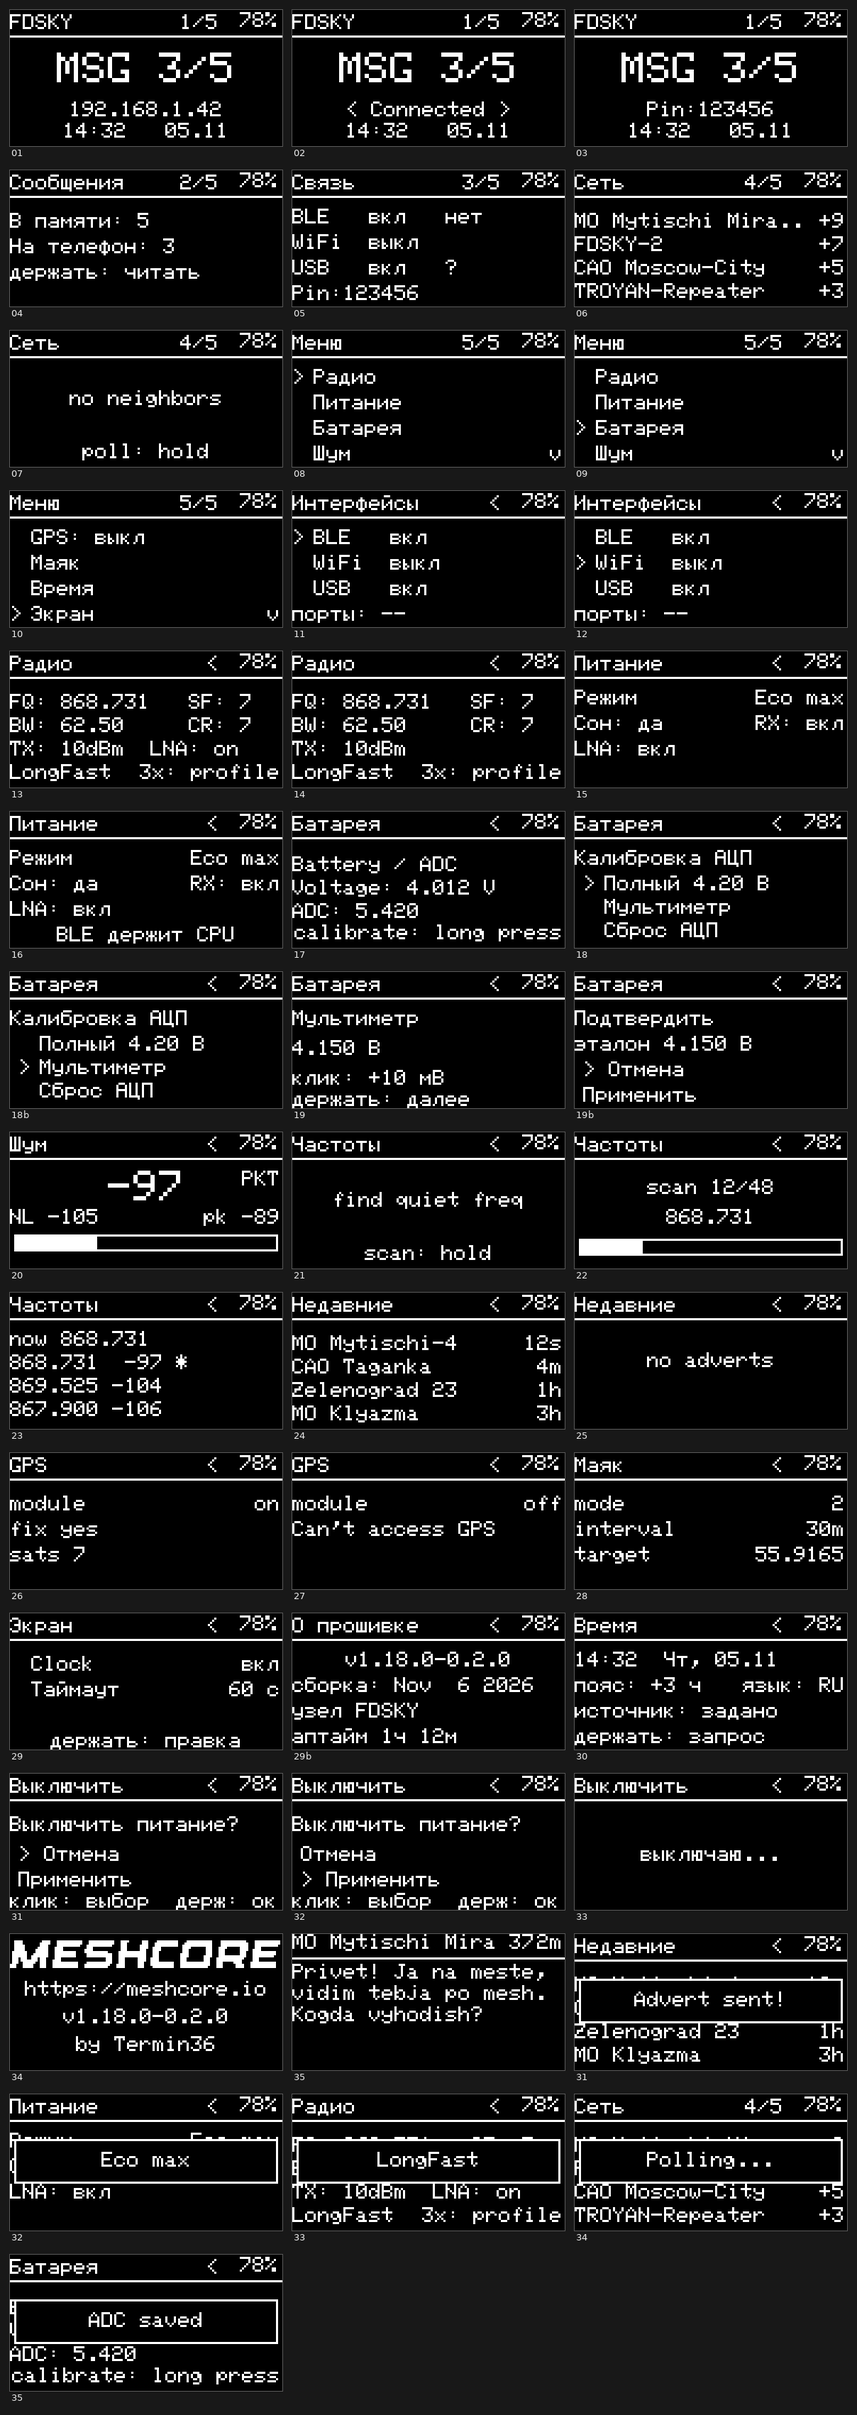
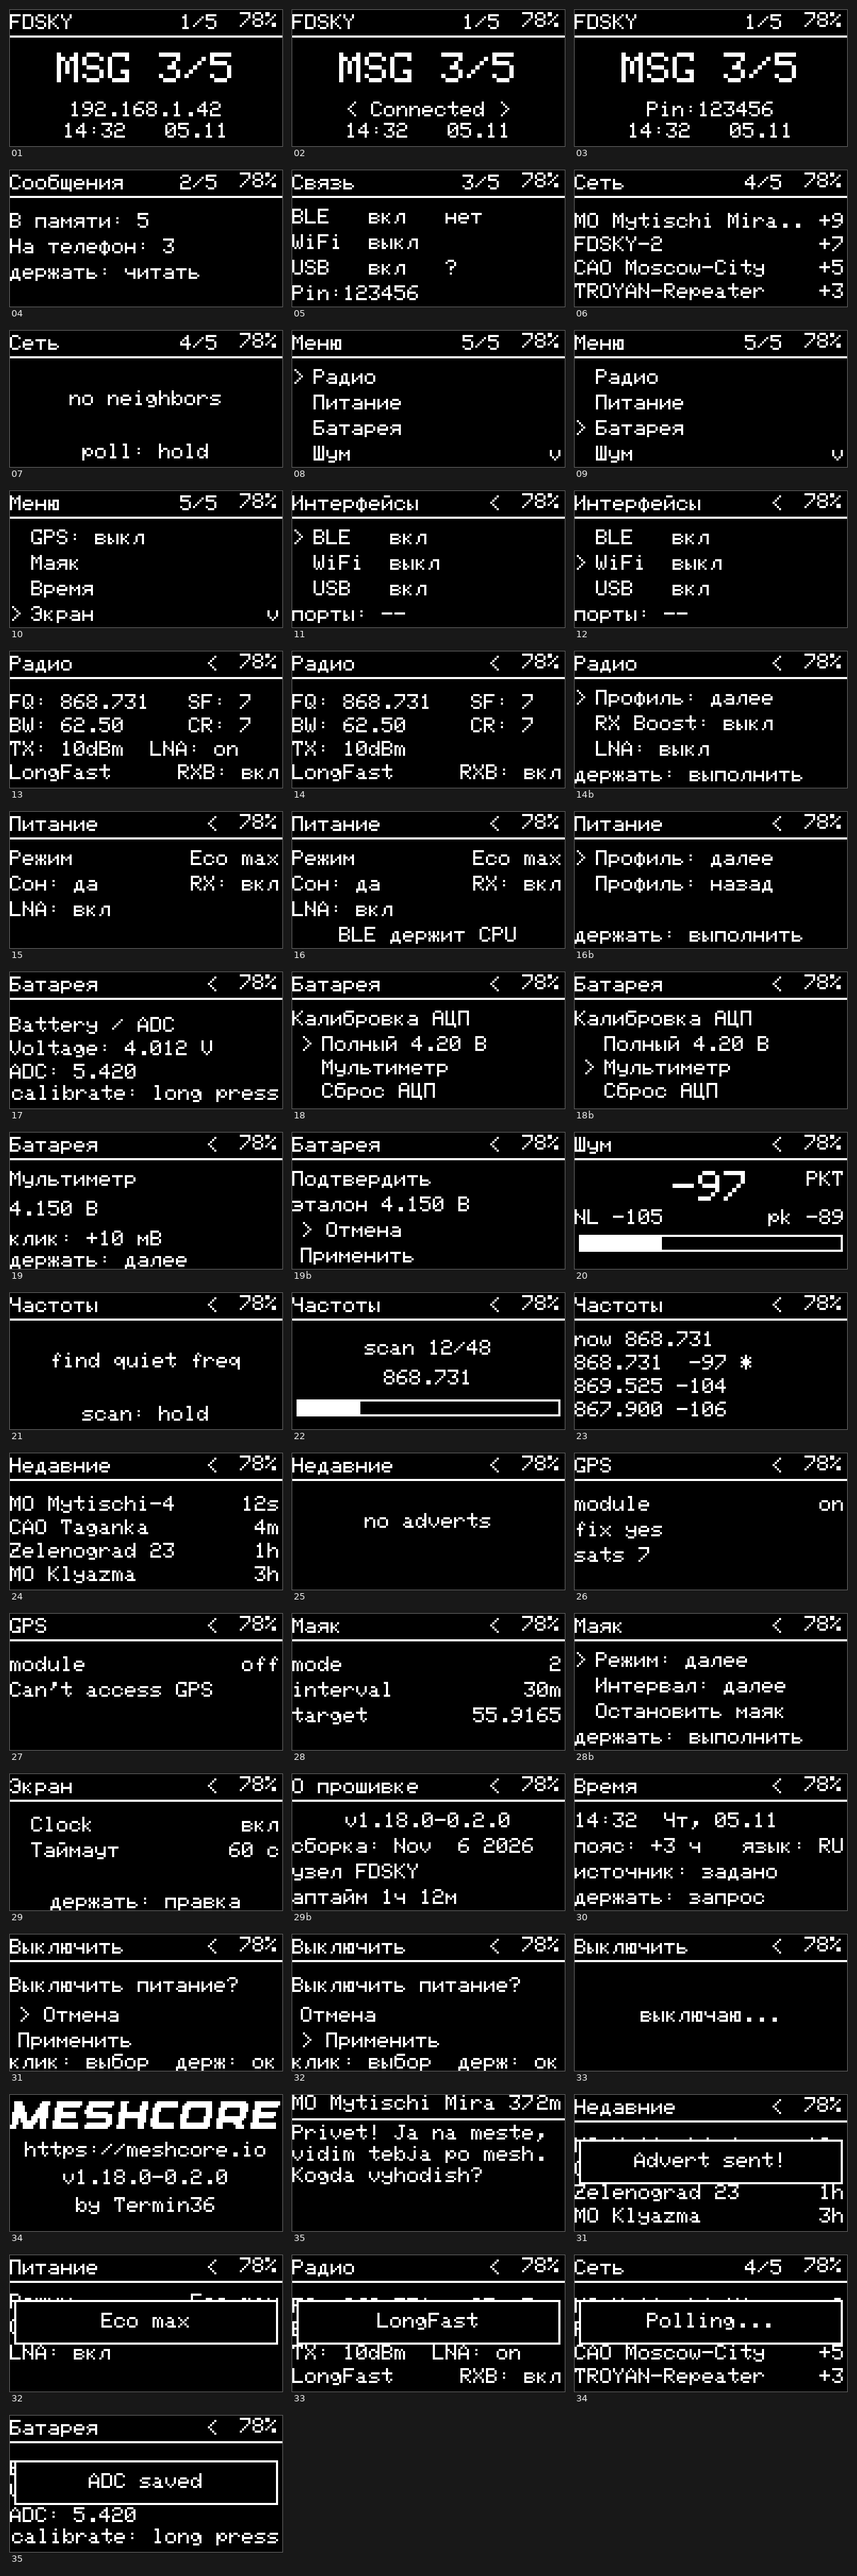
P5: action menus on hold, RX Boost row on the radio screen
- screens with more than one action (Радио, Питание, Маяк) now open a list on
  hold instead of guessing which action was meant: click moves the '>' marker,
  a second hold runs the highlighted action, double click closes the list and
  returns to the screen. Single-action screens (Недавние, Сеть, Шум, Частоты,
  GPS, Батарея) still execute on the first hold.
- action list wipes the body before drawing and keeps the screen title in the
  header, so it is clear which screen the actions belong to
- the list closes automatically when the screen changes
- Радио: RX Boost (SX1262 gain) is now a real row, 'RXB: вкл/выкл', instead of
  the '3x: profile' gesture hint; the profile name stays bottom-left
- actions: Радио = профиль / RX Boost / LNA, Питание = профиль вперёд/назад,
  Маяк = режим / интервал / остановить

USER_GUIDE and mockups updated (46 states).

Changed region(s): [[0.0, 0.0, 0.9801, 0.9965], [0.1225, 0.6539, 0.1838, 0.6851], [0.2144, 0.6539, 0.245, 0.6851]]

diff --git a/examples/companion_radio/ui-new/UITask.cpp b/examples/companion_radio/ui-new/UITask.cpp
@@ -248,8 +248,8 @@ public:
   // Navigation from outside (e.g., triple-click on CONNECTIONS)
   void stepPageNav(int dir) { _page = stepPage(dir); }
   // Jump straight to a sub-screen, bypassing the root flip cycle
-  void enterSub(uint8_t p) { _sub_parent = _in_sub ? _sub_parent : _page; _in_sub = true; _page = p; }
-  void leaveSub() { _page = _sub_parent; _in_sub = false; }
+  void enterSub(uint8_t p) { _sub_parent = _in_sub ? _sub_parent : _page; _in_sub = true; _act_open = false; _page = p; }
+  void leaveSub() { _page = _sub_parent; _in_sub = false; _act_open = false; }
   void goToPage(uint8_t p) { _page = p; _in_sub = true; }
   bool isInSub() const { return _in_sub; }
   uint8_t getMenuIndex() const { return _menu_index; }
@@ -610,6 +610,101 @@ private:
     return secs[idx < 5 ? idx : 3];
   }
 
+  // ---- action menu: a hold on a sub-screen opens the list of its actions,
+  // then click moves the marker and a second hold runs the highlighted one.
+  bool _act_open = false;
+  uint8_t _act_idx = 0;
+
+  uint8_t actionCount() const {
+    switch (_page) {
+      case HomePage::RADIO:  return _task->canControlFemLna() ? 3 : 2;
+      case HomePage::POWER:  return 2;
+#if ENV_INCLUDE_GPS == 1
+      case HomePage::BEACON: return 3;
+#endif
+      default: return 0;
+    }
+  }
+
+  const char* actionLabel(uint8_t i) const {
+    switch (_page) {
+      case HomePage::RADIO:
+        if (i == 0) return "Профиль: далее";
+        if (i == 1) return (_node_prefs && _node_prefs->rx_boosted_gain) ? "RX Boost: выкл" : "RX Boost: вкл";
+        return (_node_prefs && _node_prefs->radio_fem_rxgain) ? "LNA: выкл" : "LNA: вкл";
+      case HomePage::POWER:
+        return i == 0 ? "Профиль: далее" : "Профиль: назад";
+#if ENV_INCLUDE_GPS == 1
+      case HomePage::BEACON:
+        if (i == 0) return "Режим: далее";
+        if (i == 1) return "Интервал: далее";
+        return "Остановить маяк";
+#endif
+      default: return "";
+    }
+  }
+
+  void stepPowerProfile(int dir) {
+    if (!_node_prefs) return;
+    bool fem = _task->canControlFemLna();
+    bool cpu_ok = _task->canSelectMcuSleep() && !_task->gpsBlocksCpuSleep() && !_task->bleBlocksCpuSleep();
+    bool boost = _node_prefs->rx_boosted_gain != 0;
+    bool lna = fem && _node_prefs->radio_fem_rxgain != 0;
+    bool cpu = cpu_ok && _node_prefs->mcu_sleep != 0;
+    PowerChoice choices[6];
+    int n = buildPowerChoices(fem, cpu_ok, choices);
+    if (n <= 0) return;
+    int cur = -1;
+    for (int i = 0; i < n; i++) {
+      if (choices[i].boost == boost && choices[i].lna == lna && choices[i].cpu == cpu) { cur = i; break; }
+    }
+    int next = (cur < 0) ? 0 : ((cur + (dir >= 0 ? 1 : n - 1)) % n);
+    _task->applyPowerProfile(choices[next].boost, choices[next].lna, choices[next].cpu);
+  }
+
+  void toggleRxBoost() {
+    if (!_node_prefs) return;
+    bool fem = _task->canControlFemLna();
+    bool lna = fem && _node_prefs->radio_fem_rxgain != 0;
+    bool cpu = _task->canSelectMcuSleep() && !_task->gpsBlocksCpuSleep() && !_task->bleBlocksCpuSleep()
+               && _node_prefs->mcu_sleep != 0;
+    _task->applyPowerProfile(_node_prefs->rx_boosted_gain == 0, lna, cpu);
+  }
+
+  void runAction(uint8_t i) {
+    switch (_page) {
+      case HomePage::RADIO:
+        if (i == 0) _task->cycleRadioProfile();
+        else if (i == 1) toggleRxBoost();
+        else _task->toggleFemLna();
+        break;
+      case HomePage::POWER:
+        stepPowerProfile(i == 0 ? 1 : -1);
+        break;
+#if ENV_INCLUDE_GPS == 1
+      case HomePage::BEACON:
+        if (i == 0) {
+          the_mesh.cycleBeacon();
+        } else if (i == 1) {
+          the_mesh.cycleBeaconInterval();
+        } else {
+          the_mesh.stopBeacon();
+          _task->showAlert("маяк выключен", 900);
+          break;
+        }
+        {
+          char mode[20], target[32], pos[40], sent[24], alert[48];
+          the_mesh.formatBeacon(mode, sizeof(mode), target, sizeof(target), pos, sizeof(pos), sent, sizeof(sent));
+          snprintf(alert, sizeof(alert), "%s", mode);
+          _task->notify(UIEventType::ack);
+          _task->showAlert(alert, 900);
+        }
+        break;
+#endif
+      default: break;
+    }
+  }
+
   uint8_t setupRowCount() const { return _task->isEink() ? 3 : 2; }
 
   void stepSetupRow(int dir) {
@@ -952,8 +1047,11 @@ public:
       display.print(tmp);
       display.setCursor(0, 53);
       display.drawTextLeftAlign(0, 53, radioProfileLabel(the_mesh.radioProfile()));
+      // RX Boost is an SX1262 gain setting, unrelated to the FEM LNA: keep it
+      // on its own row instead of hiding it behind a gesture hint.
       display.setColor(UIColor::secondary_txt);
-      display.drawTextRightAlign(display.width() - 1, 53, "3x: profile");
+      display.drawTextRightAlign(display.width() - 1, 53,
+        (_node_prefs && _node_prefs->rx_boosted_gain) ? "RXB: вкл" : "RXB: выкл");
     } else if (_page == HomePage::POWER) {
       bool fem = _task->canControlFemLna();
       bool cpu_hw = _task->canSelectMcuSleep();
@@ -1500,6 +1598,25 @@ public:
         display.drawTextLeftAlign(0, 56, "клик: выбор  держ: ок");
       }
     }
+    if (_act_open) {
+      // Action list replaces the body while it is open; the header keeps the
+      // screen name so it is obvious which screen the actions belong to.
+      uint8_t total = actionCount();
+      if (_act_idx >= total) _act_idx = 0;
+      // wipe the body first: the screen render below already painted it
+      display.setColor(UIColor::window_bkg);
+      display.fillRect(0, 13, display.width(), display.height() - 13);
+      display.setTextSize(1);
+      for (uint8_t i = 0; i < total && i < 4; i++) {
+        bool sel = i == _act_idx;
+        display.setColor(sel ? UIColor::warning_txt : UIColor::primary_txt);
+        display.drawTextLeftAlign(0, 18 + i * 12, sel ? ">" : " ");
+        display.drawTextLeftAlign(10, 18 + i * 12, actionLabel(i));
+      }
+      display.setColor(UIColor::secondary_txt);
+      display.drawTextLeftAlign(0, 62 - 8, "держать: выполнить");
+      return 2000;
+    }
     if (_page == HomePage::SCAN) {
       return display.isEink() ? SCAN_REFRESH_MILLIS_EINK : SCAN_REFRESH_MILLIS;
     }
@@ -1561,6 +1678,31 @@ public:
     }
     if ((c == KEY_UP || c == KEY_DOWN) && _page == HomePage::SETUP && _setup_edit) {
       stepSetupRow(c == KEY_UP ? -1 : 1);
+      return true;
+    }
+    // Action menu: it owns every gesture while open.
+    if (_act_open) {
+      uint8_t total = actionCount();
+      if (c == KEY_NEXT || c == KEY_RIGHT) {
+        if (total > 0) _act_idx = (uint8_t)((_act_idx + 1) % total);
+        return true;
+      }
+      if (c == KEY_LEFT || c == KEY_PREV) {
+        _act_open = false;
+        return true;
+      }
+      if (c == KEY_ENTER) {
+        uint8_t idx = _act_idx;
+        _act_open = false;
+        runAction(idx);
+        return true;
+      }
+      return true;
+    }
+    // Screens with more than one action open the list instead of guessing.
+    if (c == KEY_ENTER && actionCount() > 0) {
+      _act_open = true;
+      _act_idx = 0;
       return true;
     }
     if (c == KEY_LEFT || c == KEY_PREV) {

diff --git a/tools/ui_mockups.py b/tools/ui_mockups.py
@@ -318,7 +318,7 @@ def s_radio(lna=True):
     draw_text(px, 0, 31, "BW: 62.50     CR: 7", 1)
     draw_text(px, 0, 42, "TX: 10dBm  LNA: on" if lna else "TX: 10dBm", 1)
     draw_text(px, 0, 53, "LongFast", 1)
-    draw_right(px, 53, "3x: profile", 1)
+    draw_right(px, 53, "RXB: вкл", 1)
     return img
 
 def s_power(blocked=False):
@@ -449,6 +449,15 @@ def s_setup():
     draw_centered(px, 56, "держать: правка", 1)
     return img
 
+def s_actions(title, page, items, sel=0):
+    img, px = screen(title, sub=True)
+    for i, name in enumerate(items[:4]):
+        y = 18 + i * 12
+        draw_text(px, 0, y, ">" if i == sel else " ", 1)
+        draw_text(px, 10, y, name, 1)
+    draw_text(px, 0, 54, "держать: выполнить", 1)
+    return img
+
 def s_about():
     img, px = screen("О прошивке", sub=True)
     draw_centered(px, 18, "v1.18.0-0.2.0", 1)
@@ -501,8 +510,12 @@ SCREENS = [
     ("12-sub-interfaces-toggle-wifi", "Подэкран Связи: маркер на WiFi",                        s_interfaces_select(1)),
     ("13-sub-radio",                  "Подэкран Радио: параметры и LNA",                       s_radio(True)),
     ("14-sub-radio-no-lna",           "Подэкран Радио: плата без управляемого LNA",            s_radio(False)),
+    ("14b-sub-radio-actions",         "Действия Радио: профиль, RX Boost, LNA",                s_actions("Радио", "radio",
+        ["Профиль: далее", "RX Boost: выкл", "LNA: выкл"], 0)),
     ("15-sub-power",                  "Подэкран Питание: профиль и состояние сна",             s_power(False)),
     ("16-sub-power-blocked",          "Подэкран Питание: сон держит BLE",                      s_power(True)),
+    ("16b-sub-power-actions",         "Действия Питание: профиль вперёд/назад",                s_actions("Питание", "power",
+        ["Профиль: далее", "Профиль: назад"], 0)),
     ("17-sub-battery",                "Подэкран Батарея: напряжение и множитель АЦП",          s_battery()),
     ("18-sub-battery-calibration",    "Подэкран калибровки: выбор операции",                   s_battery_cal(0)),
     ("18b-sub-battery-meter",         "Подэкран калибровки: маркер на Мультиметре",            s_battery_cal(1)),
@@ -517,6 +530,8 @@ SCREENS = [
     ("26-sub-gps",                    "Подэкран GPS: включён, есть фикс",                      s_gps(True)),
     ("27-sub-gps-unavailable",        "Подэкран GPS: модуль недоступен",                       s_gps(False)),
     ("28-sub-beacon",                 "Подэкран Маяк: режим, интервал, цель",                  s_beacon()),
+    ("28b-sub-beacon-actions",        "Действия Маяк: режим, интервал, стоп",                  s_actions("Маяк", "beacon",
+        ["Режим: далее", "Интервал: далее", "Остановить маяк"], 0)),
     ("29-sub-screen-time",            "Подэкран Экран: Clock и Таймаут",                       s_setup()),
     ("29b-sub-about",                 "Подэкран О прошивке: версия, сборка, узел, аптайм",     s_about()),
     ("30-sub-time",                   "Подэкран Время: часы, пояс, источник",                    s_time()),

diff --git a/USER_GUIDE.md b/USER_GUIDE.md
@@ -25,7 +25,7 @@ goes back, a long press performs that screen's action.
 |---|---|---|---|
 | **Click** | — | next root | `Меню` / `Связь`: move the `>` marker; otherwise nothing |
 | **Double click** | < 280 ms between clicks | previous root | back to the parent screen |
-| **Long press** | 1000 ms | `Меню`: open the selected screen, `Связь`: open `Интерфейсы`, `Сообщения`/главная: message preview | the screen's own action (toggle, scan, calibrate); on the power-off dialog — apply the highlighted choice |
+| **Long press** | 1000 ms | `Меню`: open the selected screen, `Связь`: open `Интерфейсы`, `Сообщения`/главная: message preview | screens with several actions (Радио, Питание, Маяк) open the **action list**; single-action screens execute right away |
 | **Triple click** | — | `Радио`: next radio profile, `Маяк`: next interval | same |
 | **Quad click** | — | `Маяк`: stop the beacon | same |
 | **Boot rescue** | long press within 8 s after power-on | CLI rescue mode | — |
@@ -104,24 +104,34 @@ Pin:123456
 - **Long press** → send an advert
 
 ### Радио (RADIO) — подэкран меню
-- `FQ` frequency, `SF` spreading factor, `BW` bandwidth, `CR` coding rate
-- `TX: NNdBm` and `LNA: on/off` — the LNA part only on boards that can switch it
-- current radio profile on the bottom line
-- **Triple click** → next radio profile (`LongFast`, `LongSlow`, ...)
-- **Long press** → toggle the FEM LNA (silent no-op if the board has none)
+```
+FQ: 868.731   SF: 7
+BW: 62.50     CR: 7
+TX: 10dBm  LNA: вкл
+LongFast        RXB: вкл
+```
+- live frequency, bandwidth, spreading factor, coding rate and TX power
+- `LNA` — external FEM amplifier, shown only when the board has a controllable one
+- `RXB` — SX1262 boosted receive gain, a **separate** setting from the FEM LNA
+- profile name in the bottom-left corner
+- **Long press** → action list:
+```
+> Профиль: далее
+  RX Boost: выкл
+  LNA: выкл
+```
+  click moves the marker, a second hold runs the action, a double click closes the list
 
 ### Питание (POWER) — подэкран меню
 ```
-Power                       Eco max
-CPU on                  RX on
-LNA on
-              mode: hold
+Режим                   Eco max
+Сон: да               RX: вкл
+LNA: вкл
 ```
-- `Режим` + profile name, generated from the available options (`Eco max` … `Eco min`)
-- `Сон: да/нет/н/д` — whether light sleep is permitted (the CPU still runs while the UI draws), `RX: вкл/выкл` — SX1262 boosted gain, separate from the FEM LNA
-- `LNA: вкл/выкл` only on boards with a controllable FEM
-- bottom line is a real reason, not a hint: `GPS держит CPU`, `BLE держит CPU` or `сон недоступен`
-- **Long press** → apply the next power profile
+- `Режим` + generated profile name, `Сон: да/нет/н/д` (light sleep permitted — the CPU still
+  runs while the UI draws), `RX: вкл/выкл`, `LNA: вкл/выкл`
+- bottom line only appears as a real reason: `GPS держит CPU`, `BLE держит CPU`, `сон недоступен`
+- **Long press** → action list `Профиль: далее` / `Профиль: назад`
 
 ### Батарея (BATTERY) — подэкран меню, Heltec V4
 - `Voltage: 4.012 V` and `ADC: 5.420` (the multiplier the calibration changes)
@@ -168,10 +178,9 @@ LNA on
 - **Long press** → toggle GPS
 
 ### Маяк (BEACON) — подэкран меню
-- mode, interval and target
-- **Long press** → next mode (OFF → Local → Flood → Group → Chat)
-- **Triple click** → next interval
-- **Quad click** → stop the beacon
+- mode, interval, target and the last-sent time for the mesh beacon
+- **Long press** → action list: `Режим: далее`, `Интервал: далее`, `Остановить маяк`
+- interval applies to group/chat modes only (5/10/15/30/60/120 min)
 
 ### Экран (SETUP) — подэкран меню
 ```

diff --git a/docs/ui-mockups/README.md b/docs/ui-mockups/README.md
@@ -23,8 +23,10 @@
 | `12-sub-interfaces-toggle-wifi.png` | sub-interfaces-toggle-wifi | Подэкран Связи: маркер на WiFi |
 | `13-sub-radio.png` | sub-radio | Подэкран Радио: параметры и LNA |
 | `14-sub-radio-no-lna.png` | sub-radio-no-lna | Подэкран Радио: плата без управляемого LNA |
+| `14b-sub-radio-actions.png` | sub-radio-actions | Действия Радио: профиль, RX Boost, LNA |
 | `15-sub-power.png` | sub-power | Подэкран Питание: профиль и состояние сна |
 | `16-sub-power-blocked.png` | sub-power-blocked | Подэкран Питание: сон держит BLE |
+| `16b-sub-power-actions.png` | sub-power-actions | Действия Питание: профиль вперёд/назад |
 | `17-sub-battery.png` | sub-battery | Подэкран Батарея: напряжение и множитель АЦП |
 | `18-sub-battery-calibration.png` | sub-battery-calibration | Подэкран калибровки: выбор операции |
 | `18b-sub-battery-meter.png` | sub-battery-meter | Подэкран калибровки: маркер на Мультиметре |
@@ -39,6 +41,7 @@
 | `26-sub-gps.png` | sub-gps | Подэкран GPS: включён, есть фикс |
 | `27-sub-gps-unavailable.png` | sub-gps-unavailable | Подэкран GPS: модуль недоступен |
 | `28-sub-beacon.png` | sub-beacon | Подэкран Маяк: режим, интервал, цель |
+| `28b-sub-beacon-actions.png` | sub-beacon-actions | Действия Маяк: режим, интервал, стоп |
 | `29-sub-screen-time.png` | sub-screen-time | Подэкран Экран: Clock и Таймаут |
 | `29b-sub-about.png` | sub-about | Подэкран О прошивке: версия, сборка, узел, аптайм |
 | `30-sub-time.png` | sub-time | Подэкран Время: часы, пояс, источник |
